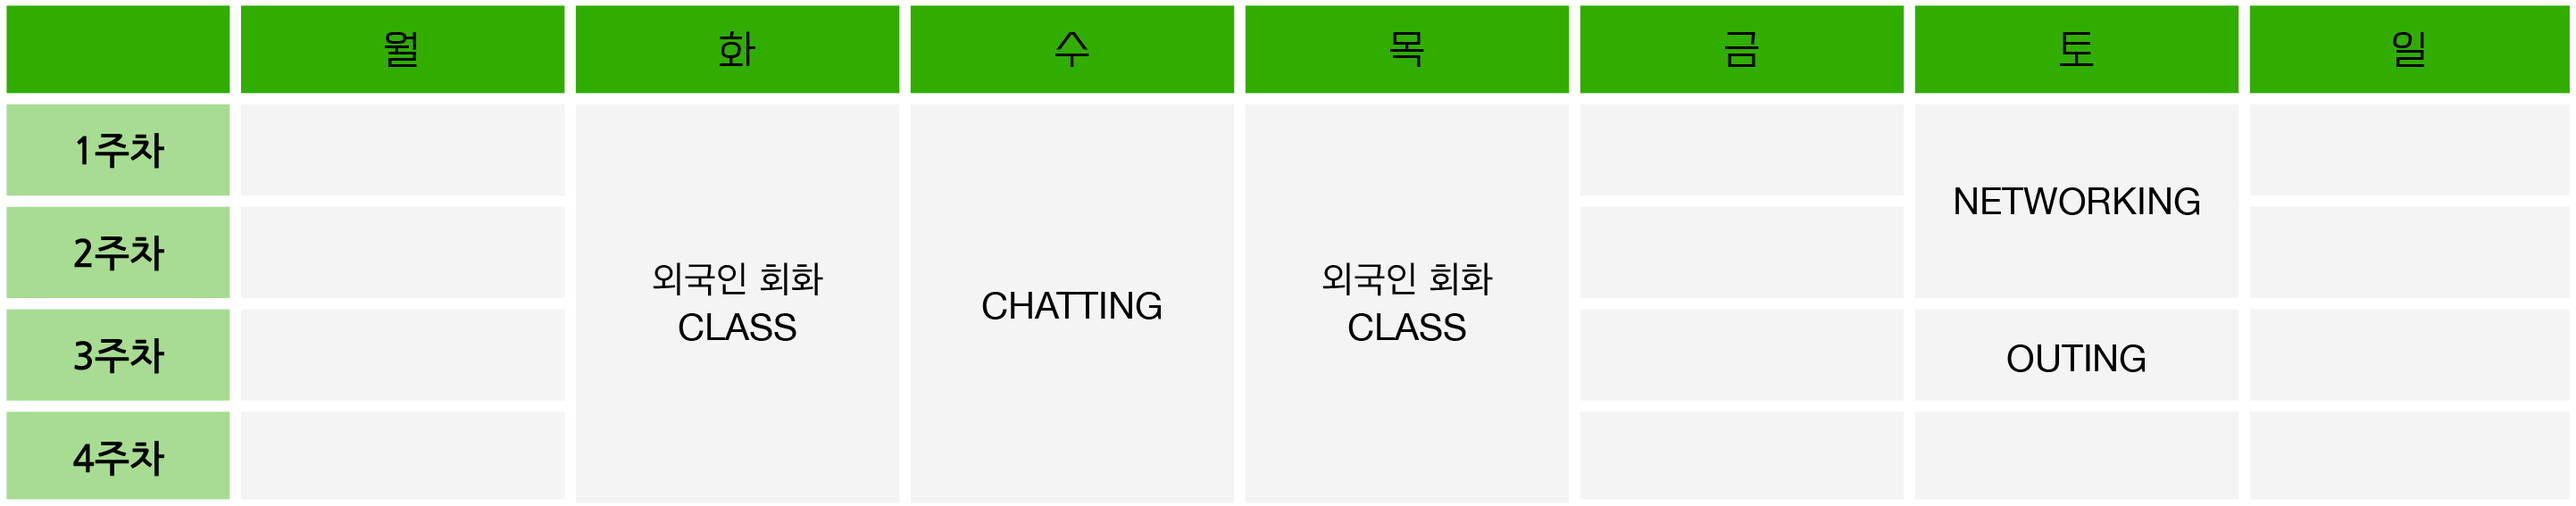
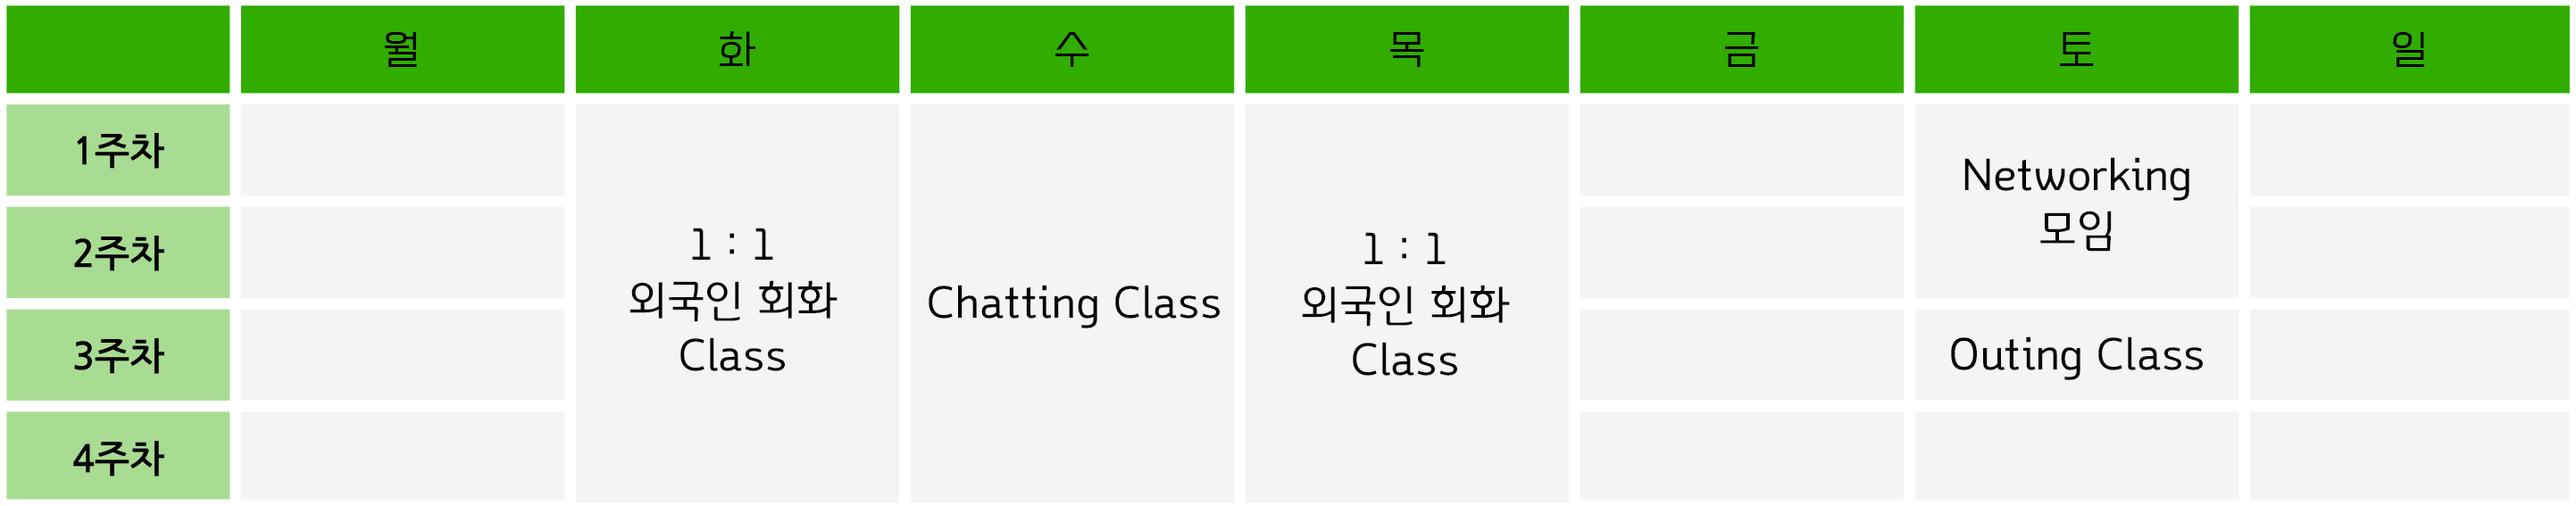
sub>치잉코스 시간표 변경, 시간표 밑 텍스트 추가

diff --git a/src/components/Course/courseInfo.js b/src/components/Course/courseInfo.js
@@ -17,6 +17,7 @@ export const courseInfo = [
         theme: "yellow",
         bgColor: "#ffffff",
         badge: false,
+        text: "* Group Class는 수,금,토 중 요일 한 개 선택",
     },
     {
         id: "runner",
@@ -37,6 +38,7 @@ export const courseInfo = [
         theme: "green",
         bgColor: "#dfdfdf",
         badge: false,
+        text: "",
     },
     {
         id: "jumper",
@@ -58,5 +60,6 @@ export const courseInfo = [
         theme: "red",
         bgColor: "#ffffff",
         badge: true,
+        text: "",
     },
 ];

diff --git a/src/components/Course/Course.js b/src/components/Course/Course.js
@@ -121,6 +121,7 @@ function Course({ courseObj }) {
                                 courseObj.id
                             }_schedule${matches ? "" : "_m"}.png`}
                         ></img>
+                        <div style={{ fontSize: "1rem" }}>{courseObj.text}</div>
                     </Grid>
                 </Grid>
             </Box>
